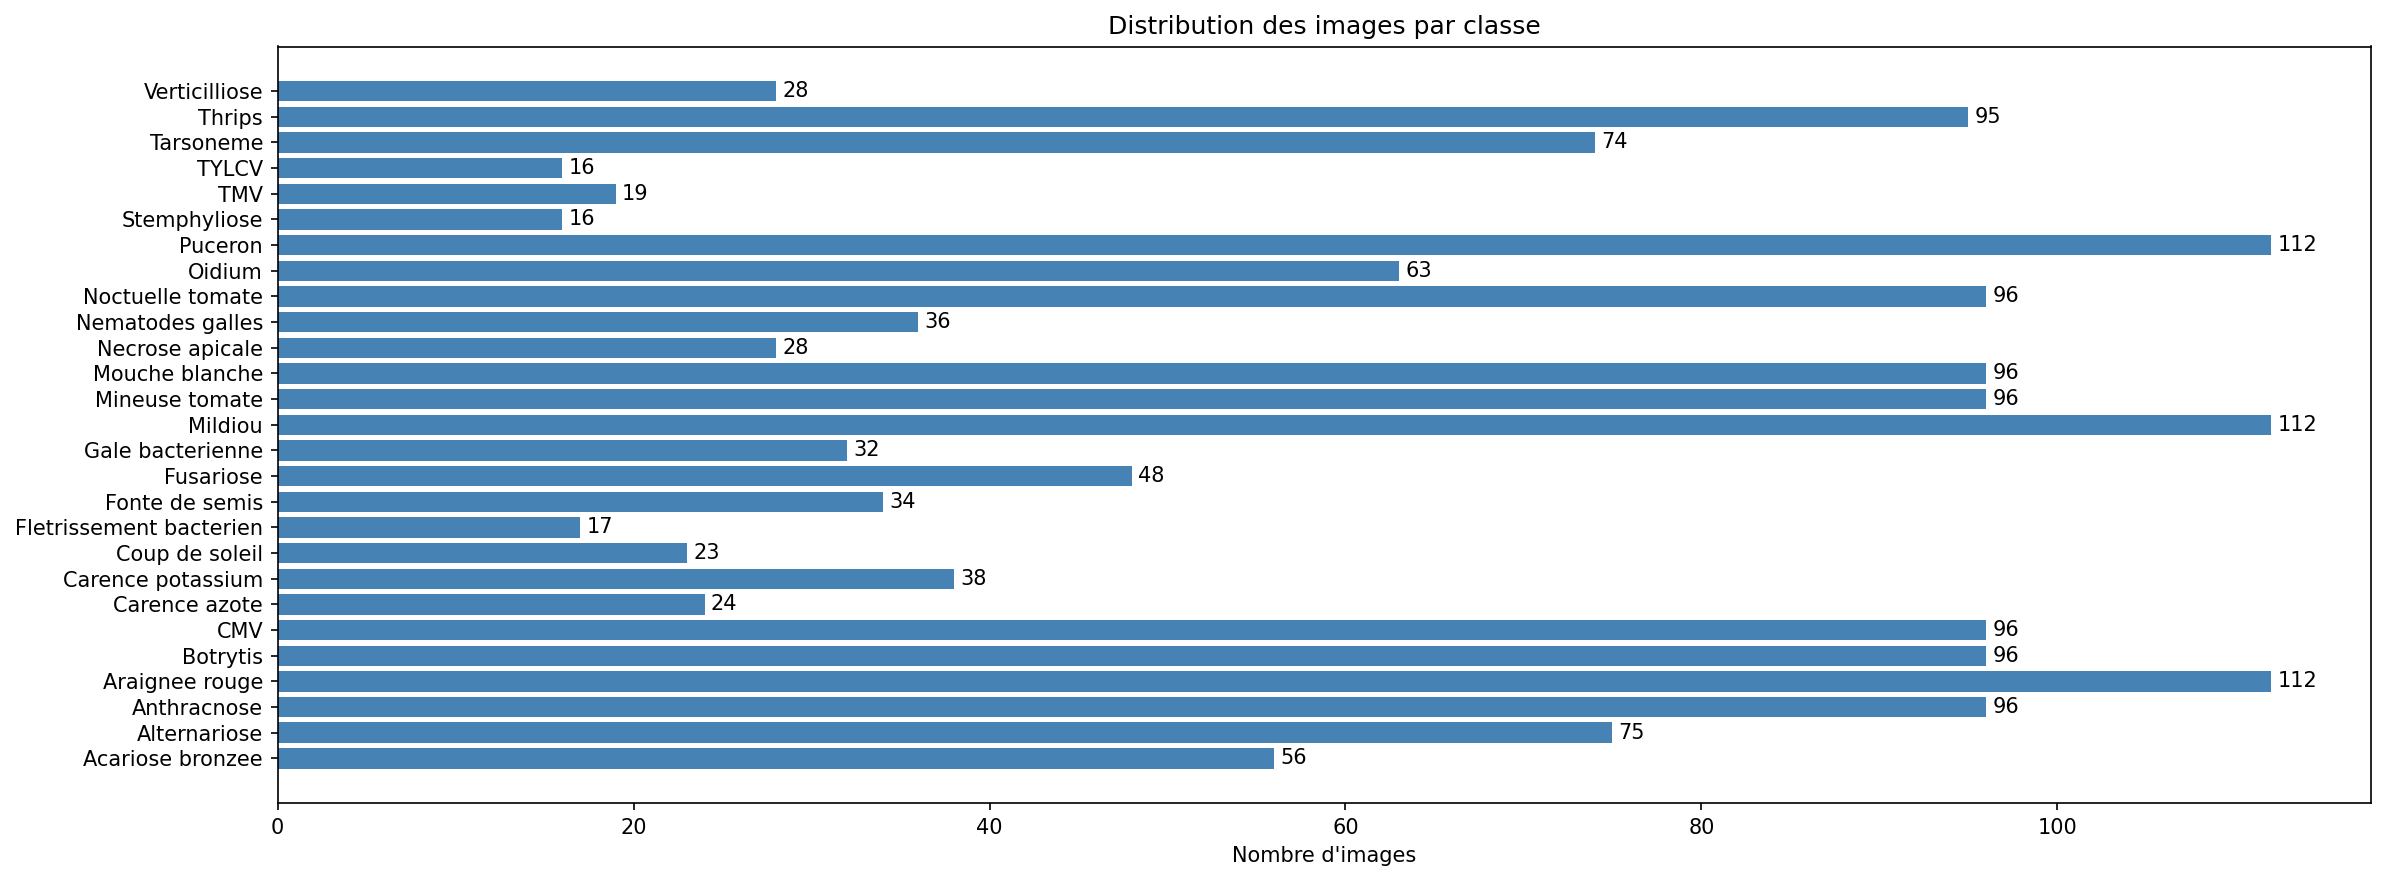
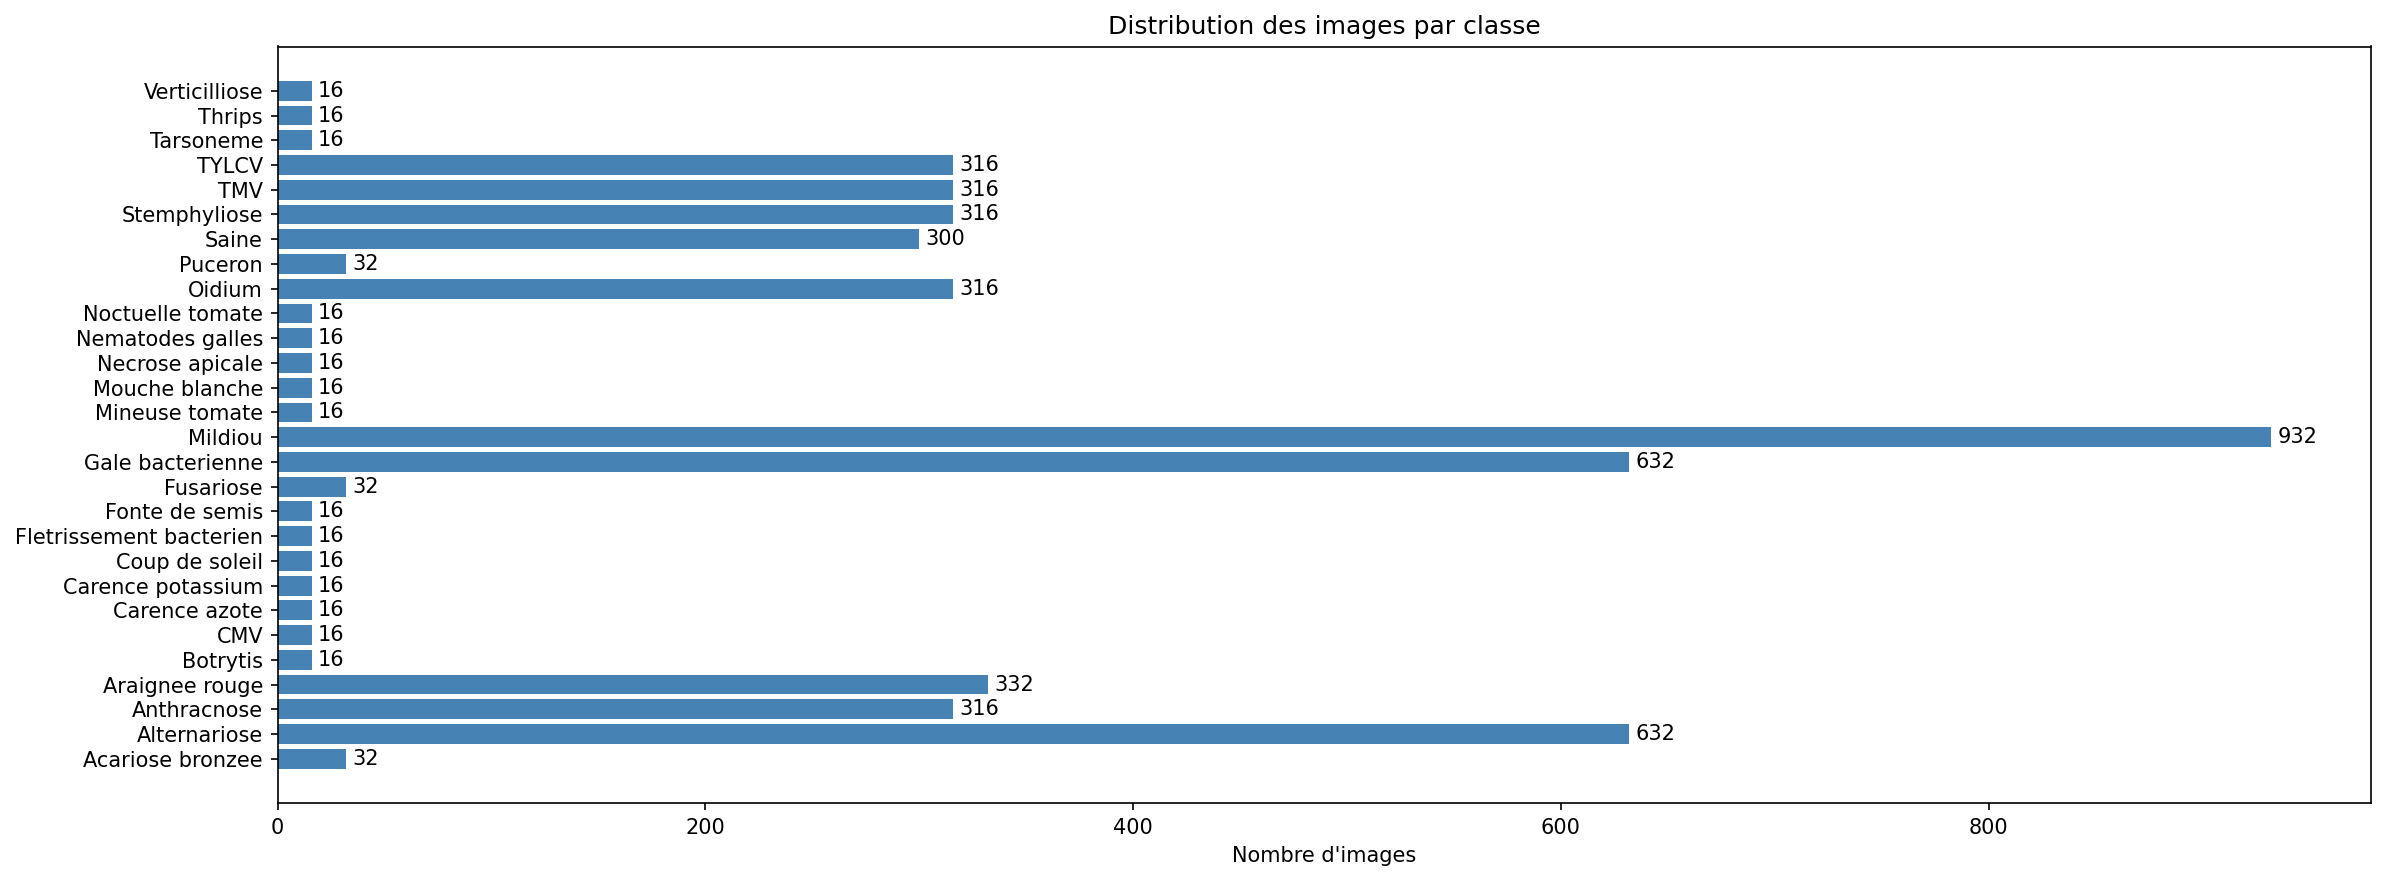
Integrate PlantVillage dataset and retrain model — 94.4% accuracy
- Fix hardcoded Windows paths in train_model.py, scrape_inaturalist.py,
  scrape_wikimedia.py (now use Path(__file__).resolve().parent)
- Add download_plantvillage.py: extracts 4200 images from PlantVillage
  via tensorflow-datasets across 14 classes mapped to AgroLaafi taxonomy
- Update train_model.py: add PlantVillage as 4th data source, extend
  LABEL_MAP with 14 PlantVillage folder mappings, add "Saine" class (28 total)
- Training results: 4744 images, 28 classes, test accuracy 94.4%,
  top-3 accuracy 99.8% (vs ~60% with 544 images)
- Add results.json, updated plots and TFLite float32 model (10 MB)

diff --git a/download_plantvillage.py b/download_plantvillage.py
@@ -1,0 +1,159 @@
+"""
+Téléchargement du dataset PlantVillage via tensorflow-datasets.
+Extrait les classes pertinentes et les mappe vers la taxonomie AgroLaafi.
+Sortie : data/scraped/plantvillage/<dossier_classe>/<image>.jpg
+"""
+
+import os
+import numpy as np
+from pathlib import Path
+from collections import defaultdict
+
+os.environ["TF_CPP_MIN_LOG_LEVEL"] = "2"
+import tensorflow as tf
+import tensorflow_datasets as tfds
+
+BASE_DIR = Path(__file__).resolve().parent
+OUT_DIR  = BASE_DIR / "data" / "scraped" / "plantvillage"
+
+# Images max extraites par dossier de sortie (pas par classe PlantVillage —
+# plusieurs classes PV peuvent pointer vers le même dossier)
+MAX_PER_FOLDER = 300
+
+# Mapping : label PlantVillage → (nom_dossier_sortie, label_canonique_AgroLaafi)
+# Plusieurs classes PV peuvent partager le même dossier (même maladie, plante diff.)
+PLANTVILLAGE_MAP = {
+    "Tomato___Bacterial_spot":                        ("tomato_bacterial_spot",  "Gale bacterienne"),
+    "Tomato___Early_blight":                          ("tomato_early_blight",    "Alternariose"),
+    "Tomato___Late_blight":                           ("tomato_late_blight",     "Mildiou"),
+    "Tomato___Leaf_Mold":                             ("tomato_leaf_mold",       "Mildiou"),
+    "Tomato___Septoria_leaf_spot":                    ("tomato_septoria",        "Stemphyliose"),
+    "Tomato___Spider_mites Two-spotted_spider_mite":  ("tomato_spider_mites",    "Araignee rouge"),
+    "Tomato___Target_Spot":                           ("tomato_target_spot",     "Anthracnose"),
+    "Tomato___Tomato_Yellow_Leaf_Curl_Virus":         ("tomato_tylcv",           "TYLCV"),
+    "Tomato___Tomato_mosaic_virus":                   ("tomato_mosaic_virus",    "TMV"),
+    "Potato___Early_blight":                          ("potato_early_blight",    "Alternariose"),
+    "Potato___Late_blight":                           ("potato_late_blight",     "Mildiou"),
+    "Pepper,_bell___Bacterial_spot":                  ("pepper_bacterial_spot",  "Gale bacterienne"),
+    "Squash___Powdery_mildew":                        ("squash_powdery_mildew",  "Oidium"),
+    "Tomato___healthy":                               ("tomato_healthy",         "Saine"),
+}
+
+# Noms de dossiers → label canonique (pour le LABEL_MAP de train_model.py)
+FOLDER_TO_LABEL = {folder: label for folder, label in PLANTVILLAGE_MAP.values()}
+
+
+def save_image(image_tensor: tf.Tensor, out_path: Path) -> bool:
+    """Encode un tenseur image en JPEG et l'écrit sur disque."""
+    try:
+        img_np = image_tensor.numpy()
+        encoded = tf.image.encode_jpeg(img_np, quality=92)
+        out_path.write_bytes(encoded.numpy())
+        return True
+    except Exception as e:
+        print(f"    [ERR] {out_path.name}: {e}")
+        return False
+
+
+def main():
+    OUT_DIR.mkdir(parents=True, exist_ok=True)
+
+    print("=" * 60)
+    print("  AgroLaafi — Extraction PlantVillage")
+    print("=" * 60)
+    print(f"  Sortie      : {OUT_DIR}")
+    print(f"  Max/dossier : {MAX_PER_FOLDER} images")
+    print()
+
+    # ── Chargement du dataset ─────────────────────────────────────────────────
+    print("[ 1/3 ] Chargement des métadonnées PlantVillage ...")
+    ds_info = tfds.builder("plant_village").info
+    label_names = ds_info.features["label"].names
+    print(f"  {len(label_names)} classes disponibles dans PlantVillage")
+
+    # Vérifie que nos classes cibles existent bien dans le dataset
+    missing = [k for k in PLANTVILLAGE_MAP if k not in label_names]
+    if missing:
+        print(f"  [WARN] Classes introuvables dans PlantVillage : {missing}")
+
+    label_to_idx = {name: i for i, name in enumerate(label_names)}
+    target_indices = {
+        label_to_idx[pv_label]: (folder, canon_label)
+        for pv_label, (folder, canon_label) in PLANTVILLAGE_MAP.items()
+        if pv_label in label_to_idx
+    }
+
+    # ── Création des dossiers de sortie ───────────────────────────────────────
+    for folder, _ in FOLDER_TO_LABEL.items():
+        (OUT_DIR / folder).mkdir(parents=True, exist_ok=True)
+
+    # ── Compteurs d'images existantes ─────────────────────────────────────────
+    folder_counts = defaultdict(int)
+    for folder in FOLDER_TO_LABEL:
+        folder_counts[folder] = len(list((OUT_DIR / folder).glob("*.jpg")))
+        if folder_counts[folder] > 0:
+            print(f"  [EXIST] {folder}: {folder_counts[folder]} images déjà présentes")
+
+    if all(folder_counts[f] >= MAX_PER_FOLDER for f in FOLDER_TO_LABEL):
+        print("\n  Tous les dossiers sont déjà complets. Rien à faire.")
+        _print_summary(folder_counts)
+        return
+
+    # ── Téléchargement et extraction ──────────────────────────────────────────
+    print("\n[ 2/3 ] Téléchargement et extraction des images ...")
+    print("  (Première exécution : ~1.5 GB à télécharger, quelques minutes)")
+    print()
+
+    ds = tfds.load(
+        "plant_village",
+        split="train",
+        shuffle_files=False,
+        as_supervised=False,
+    )
+
+    total_saved = 0
+    for example in ds:
+        label_idx = int(example["label"].numpy())
+        if label_idx not in target_indices:
+            continue
+
+        folder, _ = target_indices[label_idx]
+        if folder_counts[folder] >= MAX_PER_FOLDER:
+            continue
+
+        out_path = OUT_DIR / folder / f"pv_{folder_counts[folder]:04d}.jpg"
+        if save_image(example["image"], out_path):
+            folder_counts[folder] += 1
+            total_saved += 1
+
+        # Affichage de progression tous les 100 enregistrements
+        if total_saved % 100 == 0 and total_saved > 0:
+            print(f"  {total_saved} images extraites ...")
+
+        # Arrêt anticipé si tous les dossiers sont pleins
+        if all(folder_counts[f] >= MAX_PER_FOLDER for f in FOLDER_TO_LABEL):
+            break
+
+    # ── Résumé ────────────────────────────────────────────────────────────────
+    print(f"\n[ 3/3 ] {total_saved} nouvelles images extraites")
+    _print_summary(folder_counts)
+
+
+def _print_summary(folder_counts: dict):
+    print("\n  Résumé par dossier :")
+    print(f"  {'Dossier':<35} {'Label AgroLaafi':<25} {'Images':>6}")
+    print("  " + "-" * 68)
+    grand_total = 0
+    for folder, canon_label in sorted(FOLDER_TO_LABEL.items()):
+        n = folder_counts[folder]
+        grand_total += n
+        status = "OK" if n >= MAX_PER_FOLDER else f"{n}"
+        print(f"  {folder:<35} {canon_label:<25} {status:>6}")
+    print("  " + "-" * 68)
+    print(f"  {'TOTAL':<62} {grand_total:>6}")
+    print()
+    print("  Prochaine étape : python3 train_model.py")
+
+
+if __name__ == "__main__":
+    main()

diff --git a/train_model.py b/train_model.py
@@ -30,7 +30,7 @@ print(f"TensorFlow {tf.__version__}  |  GPU: {tf.config.list_physical_devices('G
 # 1. CONFIGURATION
 # ─────────────────────────────────────────────────────────────────────────────
 
-BASE_DIR   = Path(r"c:\Users\Larissa CONSEIGA\agrolaafi\plant-disease")
+BASE_DIR   = Path(__file__).resolve().parent
 DATA_DIR   = BASE_DIR / "data"
 MODELS_DIR = BASE_DIR / "models"
 PLOTS_DIR  = BASE_DIR / "plots"
@@ -97,6 +97,21 @@ LABEL_MAP = {
     "mineuse_de_la_tomate":     "Mineuse tomate",
     "mouche_blanche":            "Mouche blanche",
     "noctuelle_de_la_tomate":   "Noctuelle tomate",
+    # ── Source PlantVillage (via tensorflow-datasets) ────────────────────────
+    "tomato_bacterial_spot":    "Gale bacterienne",
+    "tomato_early_blight":      "Alternariose",
+    "tomato_late_blight":       "Mildiou",
+    "tomato_leaf_mold":         "Mildiou",
+    "tomato_septoria":          "Stemphyliose",
+    "tomato_spider_mites":      "Araignee rouge",
+    "tomato_target_spot":       "Anthracnose",
+    "tomato_tylcv":             "TYLCV",
+    "tomato_mosaic_virus":      "TMV",
+    "potato_early_blight":      "Alternariose",
+    "potato_late_blight":       "Mildiou",
+    "pepper_bacterial_spot":    "Gale bacterienne",
+    "squash_powdery_mildew":    "Oidium",
+    "tomato_healthy":           "Saine",
 }
 
 
@@ -113,6 +128,7 @@ SOURCES = [
     DATA_DIR / "images_augmented",                   # docx + augmentation
     DATA_DIR / "scraped" / "inaturalist",            # iNaturalist API
     DATA_DIR / "scraped" / "wikimedia",              # Wikimedia Commons
+    DATA_DIR / "scraped" / "plantvillage",           # PlantVillage public dataset
 ]
 
 def collect_all_images() -> dict[str, list[Path]]:

diff --git a/scrape_inaturalist.py b/scrape_inaturalist.py
@@ -12,7 +12,7 @@ import requests
 from pathlib import Path
 
 # ── Chemins ───────────────────────────────────────────────────────────────────
-BASE_DIR  = Path(r"c:\Users\Larissa CONSEIGA\agrolaafi\plant-disease")
+BASE_DIR  = Path(__file__).resolve().parent
 OUT_DIR   = BASE_DIR / "data" / "scraped" / "inaturalist"
 LOG_FILE  = BASE_DIR / "data" / "scraped" / "inaturalist_log.csv"
 

diff --git a/scrape_wikimedia.py b/scrape_wikimedia.py
@@ -15,7 +15,7 @@ import requests
 from pathlib import Path
 
 # ── Chemins ───────────────────────────────────────────────────────────────────
-BASE_DIR = Path(r"c:\Users\Larissa CONSEIGA\agrolaafi\plant-disease")
+BASE_DIR = Path(__file__).resolve().parent
 OUT_DIR  = BASE_DIR / "data" / "scraped" / "wikimedia"
 
 MAX_PER_CLASS = 60